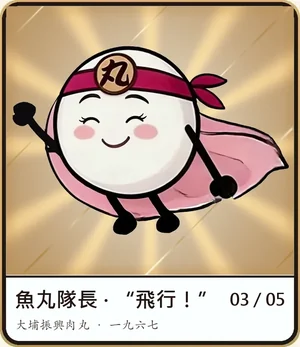
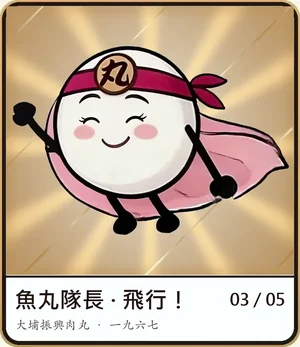
集卡活動頁：飛行卡名去掉引號

Changed region(s): [[0.03, 0.8357, 0.36, 0.8934], [0.39, 0.8357, 0.63, 0.8934], [0.66, 0.8357, 0.69, 0.8646]]

diff --git a/index.html b/index.html
@@ -687,7 +687,7 @@
   var CARDS = [
     { id:'A', name:'大埔振興 · 王牌！', rank:'萬能', img:'assets/card_a.webp?v=20261117c', thumb:'assets/thumb_a.webp?v=20261117c' },
     { id:'B', name:'丸俠 · yummy！',  rank:'普通', img:'assets/card_b.webp?v=20261116d', thumb:'assets/thumb_b.webp?v=20261116d' },
-    { id:'C', name:'魚丸隊長 · “飛行！”', rank:'稀有', img:'assets/card_c.webp?v=20261117c', thumb:'assets/thumb_c.webp?v=20261117c' },
+    { id:'C', name:'魚丸隊長 · 飛行！', rank:'稀有', img:'assets/card_c.webp?v=20261117d', thumb:'assets/thumb_c.webp?v=20261117d' },
     { id:'D', name:'丸俠 · “好串！”',  rank:'稀有', img:'assets/card_d.webp?v=20261117c', thumb:'assets/thumb_d.webp?v=20261117c' },
     /* ★ 隱藏款：雙角色同框。卡面圖未出，ready:false ⇒ 卡冊照樣顯示第 5 格（鎖定態）、但不進入抽卡池。
        出圖後把 card_e.webp / thumb_e.webp 放進 assets，並把 ready 改成 true 即可啟用。 */
